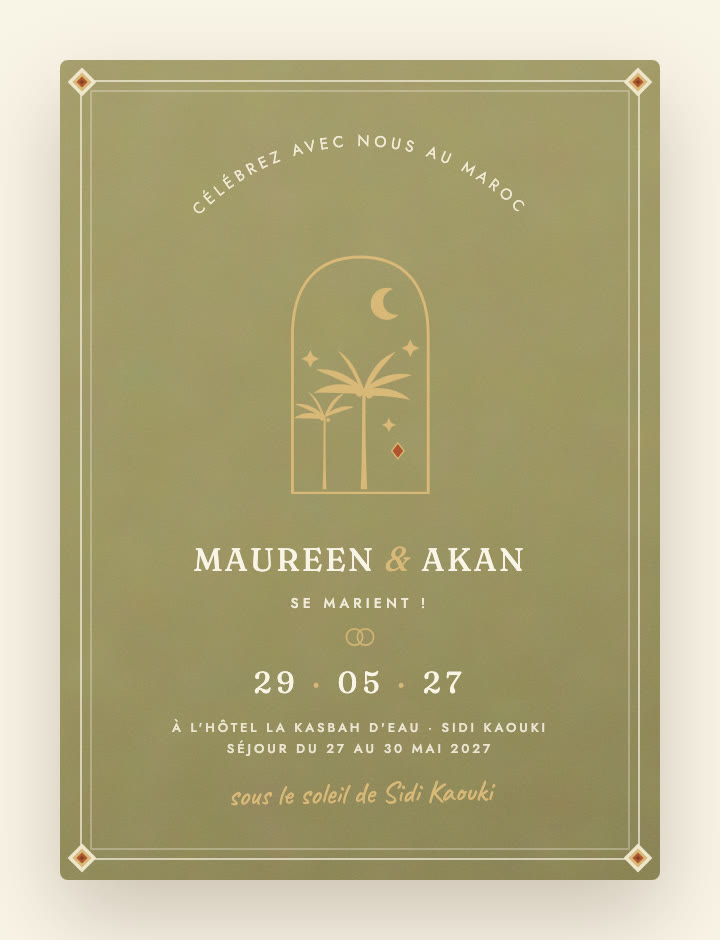
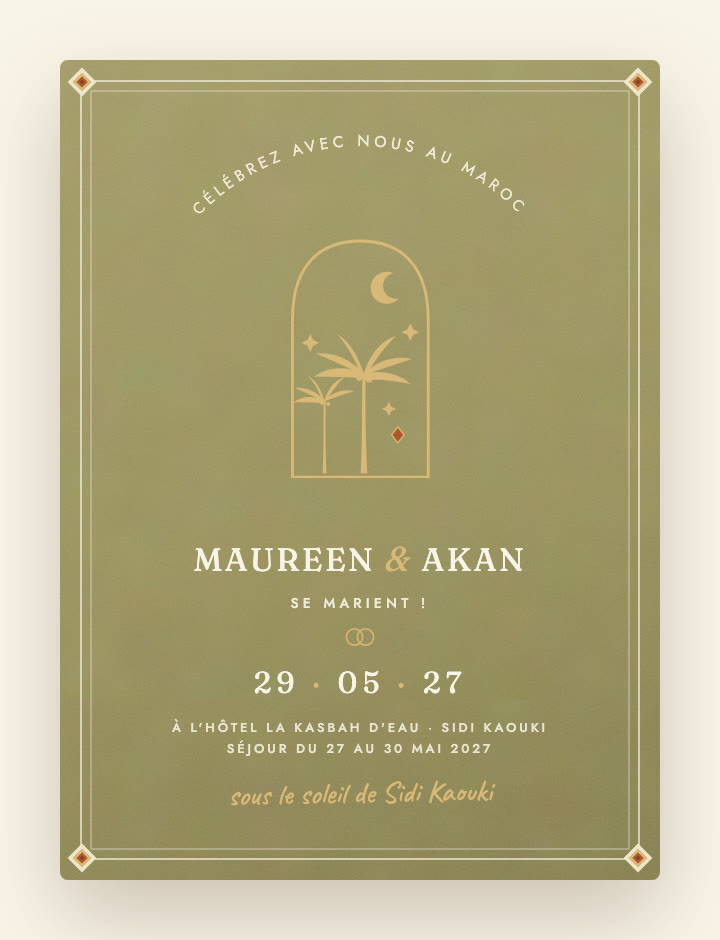
Carte : arche remontée (espace avant les prénoms)

Changed region(s): [[0.3972, 0.2468, 0.5806, 0.4628], [0.3972, 0.4628, 0.6111, 0.5245], [0.5806, 0.3085, 0.6111, 0.3394]]

diff --git a/components/invitation-reveal.tsx b/components/invitation-reveal.tsx
@@ -106,7 +106,7 @@ export function InvitationCard({ className = "" }: { className?: string }) {
             </textPath>
           </text>
         </svg>
-        <div className="flex min-h-0 flex-1 items-center justify-center pb-4">
+        <div className="flex min-h-0 flex-1 items-center justify-center pb-8">
           <ArchScene className="h-[134px]" />
         </div>
         <p className="mt-1 font-serif text-[16px] uppercase leading-tight tracking-[0.08em]">
